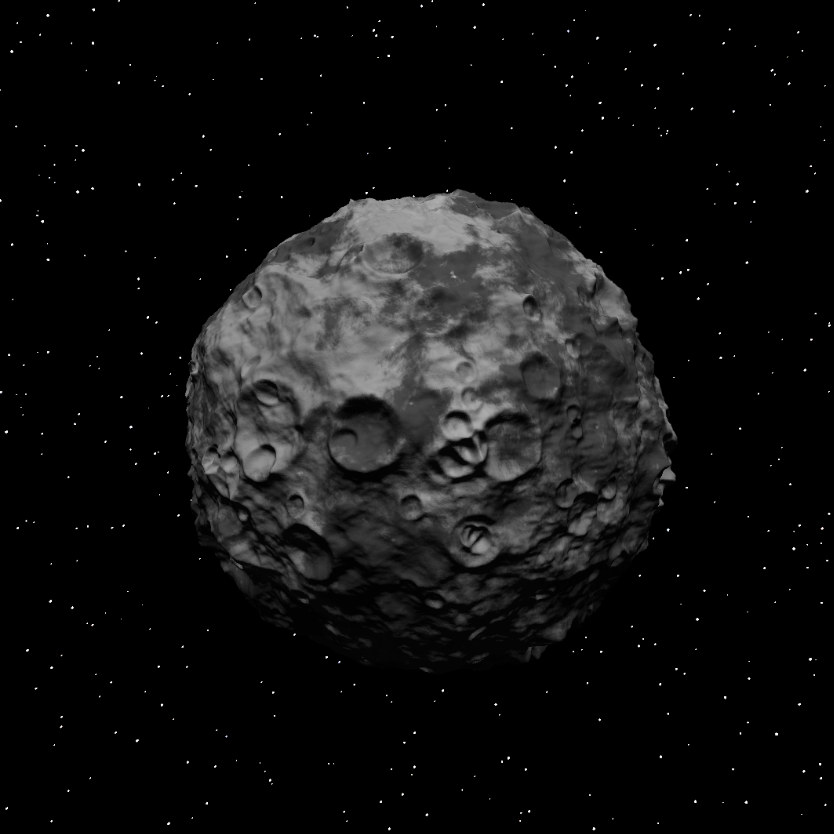
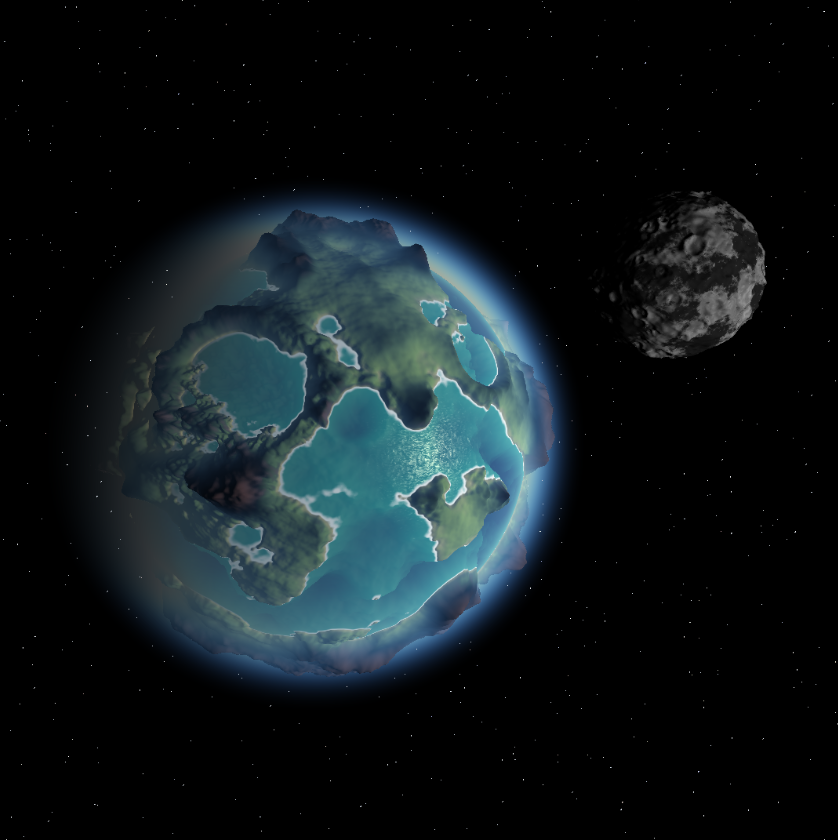
Added Anazir

diff --git a/index.html b/index.html
@@ -3,6 +3,7 @@
     <head>
         <meta charset="utf-8">
         <title>Valentin POQUET Portfolio</title>
+        <link rel="icon" type="image/AtomFusion" href="favicon.ico">
         <link rel="stylesheet" href="Portfolio.css">
         <link rel="stylesheet" href="GameSquare.css">
         <script src="Javascript.js" defer></script>
@@ -15,7 +16,37 @@
         <!--<h1 class="main_title">Gameplay Developper</h1>-->
         <h1 class="main_title">Portfolio</h1>
         <div class="section_banner">
-            <h1 class="section_title">Jeux</h1>
+            <h1 class="section_title">Projets professionnels</h1>
+        </div>
+        <div class="squares_container">
+            <!--Anazir-->
+            <div class="square">
+                <div class="image_container">
+                    <a href="https://www.anazirgame.com/" target="_blank">
+                        <img class="square-image" src="MainProjectsImg/Anazir.png" alt="Anazir" />
+                        <div class="square_text_container">
+                            <div class="square_text">Anazir</div>
+                        </div>
+                    </a>
+                </div>
+                <div class="work_tags_container">
+                    <div class="work_tag" style="background-color: #941a1e">
+                        <span>C#</span>
+                    </div>
+                    <div class="work_tag" style="background-color: #015d70">
+                        <span>Unity</span>
+                    </div>
+                    <div class="work_tag" style="background-color: #1c5e21">
+                        <span>Développeur Unity</span>
+                    </div>
+                    <div class="work_tag" style="background-color: #1c5e21">
+                        <span>Jeu Android/iOS</span>
+                    </div>
+                </div>
+            </div>
+        </div>
+        <div class="section_banner">
+            <h1 class="section_title">Projets universitaires</h1>
         </div>
         <div class="squares_container">
             <!--Happy Bites-->
@@ -36,7 +67,7 @@
                         <span>Unity</span>
                     </div>
                     <div class="work_tag" style="background-color: #1c5e21">
-                        <span>Université</span>
+                        <span>Jeu PC/Android</span>
                     </div>
                 </div>
             </div>
@@ -58,7 +89,100 @@
                         <span>Unity</span>
                     </div>
                     <div class="work_tag" style="background-color: #1c5e21">
-                        <span>Université</span>
+                        <span>Jeu PC/Android</span>
+                    </div>
+                </div>
+            </div>
+            <!--Cocoban-->
+            <div class="square">
+                <div class="image_container">
+                    <a href="Games/Cocoban/Cocoban.html">
+                        <img class="square-image" src="MainProjectsImg/Cocoban.png" alt="Cocoban" />
+                        <div class="square_text_container">
+                            <div class="square_text">Cocoban</div>
+                        </div>
+                    </a>
+                </div>
+                <div class="work_tags_container">
+                    <div class="work_tag" style="background-color: #941a1e">
+                        <span>C#</span>
+                    </div>
+                    <div class="work_tag" style="background-color: #015d70">
+                        <span>Godot</span>
+                    </div>
+                    <div class="work_tag" style="background-color: #1c5e21">
+                        <span>Jeu PC</span>
+                    </div>
+                </div>
+            </div>
+            <!--Paper Shooter-->
+            <div class="square">
+                <div class="image_container">
+                    <a href="Games/PaperShooter/PaperShooter.html">
+                        <img class="square-image" src="MainProjectsImg/PaperShooter.png" alt="Paper Shooter" />
+                        <div class="square_text_container">
+                            <div class="square_text">Paper Shooter</div>
+                        </div>
+                    </a>
+                </div>
+                <div class="work_tags_container">
+                    <div class="work_tag" style="background-color: #941a1e">
+                        <span>C#</span>
+                    </div>
+                    <div class="work_tag" style="background-color: #015d70">
+                        <span>Godot</span>
+                    </div>
+                    <div class="work_tag" style="background-color: #1c5e21">
+                        <span>Jeu PC</span>
+                    </div>
+                </div>
+            </div>
+        </div>
+        <div class="section_banner">
+            <h1 class="section_title">Projets personnels</h1>
+        </div>
+        <div class="squares_container">
+            <!--Procedural System-->
+            <div class="square">
+                <div class="image_container">
+                    <a href="OtherProjects/ProceduralSolarSystem/ProceduralSolarSystem.html">
+                        <img class="square-image" src="MainProjectsImg/ProceduralSolarSystem.png" alt="Moon" />
+                        <div class="square_text_container">
+                            <div class="square_text procedural_solar_system">Système solaire procédural</div>
+                        </div>
+                    </a>
+                </div>
+                <div class="work_tags_container">
+                    <div class="work_tag" style="background-color: #941a1e">
+                        <span>C#</span>
+                    </div>
+                    <div class="work_tag" style="background-color: #941a1e">
+                        <span>Shader</span>
+                    </div>
+                    <div class="work_tag" style="background-color: #941a1e">
+                        <span>Compute Shader</span>
+                    </div>
+                    <div class="work_tag" style="background-color: #015d70">
+                        <span>Unity</span>
+                    </div>
+                    <div class="work_tag" style="background-color: #1c5e21">
+                        <span>Technique</span>
+                    </div>
+                </div>
+            </div>
+            <!--Bg3 Mod Spectator shapeshift-->
+            <div class="square">
+                <div class="image_container">
+                    <a target="_blank" href="https://www.nexusmods.com/baldursgate3/mods/6997">
+                        <img class="square-image" src="MainProjectsImg/Bg3ModSpectatorShapeshift.jpg" alt="Bg3ModSpectatorShapeshift" />
+                        <div class="square_text_container">
+                            <div class="square_text procedural_solar_system">Baldur's Gate 3 mod: Spectator Shapeshift</div>
+                        </div>
+                    </a>
+                </div>
+                <div class="work_tags_container">
+                    <div class="work_tag" style="background-color: #015d70">
+                        <span>Modding</span>
                     </div>
                 </div>
             </div>
@@ -83,51 +207,7 @@
                         <span>Godot</span>
                     </div>
                     <div class="work_tag" style="background-color: #1c5e21">
-                        <span>Personnel</span>
-                    </div>
-                </div>
-            </div>
-            <!--Cocoban-->
-            <div class="square">
-                <div class="image_container">
-                    <a href="Games/Cocoban/Cocoban.html">
-                        <img class="square-image" src="MainProjectsImg/Cocoban.png" alt="Cocoban" />
-                        <div class="square_text_container">
-                            <div class="square_text">Cocoban</div>
-                        </div>
-                    </a>
-                </div>
-                <div class="work_tags_container">
-                    <div class="work_tag" style="background-color: #941a1e">
-                        <span>C#</span>
-                    </div>
-                    <div class="work_tag" style="background-color: #015d70">
-                        <span>Godot</span>
-                    </div>
-                    <div class="work_tag" style="background-color: #1c5e21">
-                        <span>Université</span>
-                    </div>
-                </div>
-            </div>
-            <!--Paper Shooter-->
-            <div class="square">
-                <div class="image_container">
-                    <a href="Games/PaperShooter/PaperShooter.html">
-                        <img class="square-image" src="MainProjectsImg/PaperShooter.png" alt="Paper Shooter" />
-                        <div class="square_text_container">
-                            <div class="square_text">Paper Shooter</div>
-                        </div>
-                    </a>
-                </div>
-                <div class="work_tags_container">
-                    <div class="work_tag" style="background-color: #941a1e">
-                        <span>C#</span>
-                    </div>
-                    <div class="work_tag" style="background-color: #015d70">
-                        <span>Godot</span>
-                    </div>
-                    <div class="work_tag" style="background-color: #1c5e21">
-                        <span>Université</span>
+                        <span>Jeu Android</span>
                     </div>
                 </div>
             </div>
@@ -146,59 +226,7 @@
                         <span>Python</span>
                     </div>
                     <div class="work_tag" style="background-color: #1c5e21">
-                        <span>Personnel</span>
-                    </div>
-                </div>
-            </div>
-        </div>
-        <div class="section_banner">
-            <h1 class="section_title">Autres projets</h1>
-        </div>
-        <div class="squares_container">
-            <!--Procedural System-->
-            <div class="square">
-                <div class="image_container">
-                    <a href="OtherProjects/ProceduralSolarSystem/ProceduralSolarSystem.html">
-                        <img class="square-image" src="MainProjectsImg/ProceduralSolarSystem.png" alt="Moon" />
-                        <div class="square_text_container">
-                            <div class="square_text procedural_solar_system">Système solaire procédural (WIP)</div>
-                        </div>
-                    </a>
-                </div>
-                <div class="work_tags_container">
-                    <div class="work_tag" style="background-color: #941a1e">
-                        <span>C#</span>
-                    </div>
-                    <div class="work_tag" style="background-color: #941a1e">
-                        <span>Shader</span>
-                    </div>
-                    <div class="work_tag" style="background-color: #941a1e">
-                        <span>Compute Shader</span>
-                    </div>
-                    <div class="work_tag" style="background-color: #015d70">
-                        <span>Unity</span>
-                    </div>
-                    <div class="work_tag" style="background-color: #1c5e21">
-                        <span>Personnel</span>
-                    </div>
-                </div>
-            </div>
-            <!--Bg3 Mod Spectator shapeshift-->
-            <div class="square">
-                <div class="image_container">
-                    <a target="_blank" href="https://www.nexusmods.com/baldursgate3/mods/6997">
-                        <img class="square-image" src="MainProjectsImg/Bg3ModSpectatorShapeshift.jpg" alt="Bg3ModSpectatorShapeshift" />
-                        <div class="square_text_container">
-                            <div class="square_text procedural_solar_system">Baldur's Gate 3 mod: Spectator Shapeshift</div>
-                        </div>
-                    </a>
-                </div>
-                <div class="work_tags_container">
-                    <div class="work_tag" style="background-color: #015d70">
-                        <span>Modding</span>
-                    </div>
-                    <div class="work_tag" style="background-color: #1c5e21">
-                        <span>Personnel</span>
+                        <span>Jeu PC</span>
                     </div>
                 </div>
             </div>

diff --git a/OtherProjects/ProceduralSolarSystem/ProceduralSolarSystem.html b/OtherProjects/ProceduralSolarSystem/ProceduralSolarSystem.html
@@ -18,7 +18,7 @@
         </div>-->
         <div class="TopSpace"></div>
         <div class="game_desc">
-            <h1 class="game_title">Sytème solaire procédural (WIP)</h1>
+            <h1 class="game_title">Sytème solaire procédural</h1>
             <table class="skills_table">
                 <tbody>
                     <tr>
@@ -35,7 +35,7 @@
                     </tr>
                     <tr>
                         <td class="skill_left_text"><strong>Période</strong></td>
-                        <td class="skill_right_text">Décembre 2023 - ...</td>
+                        <td class="skill_right_text">Décembre 2023 - Mars 2024</td>
                     </tr>
                 </tbody>
             </table>
@@ -110,11 +110,11 @@
             </ul>
             <ul id="accordion">
                 <li>
-                    <label for="second"><strong>Compute Shader</strong><span>+</span></label>
-                    <input type="checkbox" name="accordion" id="second">
+                    <label for="6"><strong>Compute Shader</strong><span>+</span></label>
+                    <input type="checkbox" name="accordion" id="6">
                     <div class="content">
                         <div class="content_text">
-                            J'ai généré la forme de la lune en utilisant un compute shader pour raison d'optimisation. 
+                            J'ai généré la forme de la lune en utilisant un compute shader pour des raisons d'optimisation. 
                             Je crée donc un compute buffer en Read-Write pour les vertices et qui va donc changer la position de chaque vertex. 
                             Je crée aussi un compute buffer qui contient la position et taille de chaque cratère, et un pour chaque noise que j'utilise.
                         </div>
@@ -123,16 +123,36 @@
             </ul>
             <ul id="accordion">
                 <li>
-                    <label for="6"><strong>Fond étoilé</strong><span>+</span></label>
-                    <input type="checkbox" name="accordion" id="6">
+                    <label for="7"><strong>Génération de la planète</strong><span>+</span></label>
+                    <input type="checkbox" name="accordion" id="7">
                     <div class="content">
                         <div class="content_text">
-                            J'ai créé un système qui place un certain nombre de sphères lumineuses à une position aléatoire à une certaine distance du centre et avec une couleur aléatoire parmi un gradient de couleurs prédéfinies, ce qui crée donc un dôme d'étoiles et qui ressemble à un fond étoilé vu depuis le centre.                        
+                            La forme de base de la planète commence de la même façon que les lunes mais avec beaucoup moins de cratères.
+                            Par code je crée ensuite des montagnes procéduralement et j'ajoute des creux qui vont permettre à l'océan de s'afficher.
+                            Ensuite pour la couleur je crée un shader et en fonction de la hauteur et de la pente du terrain la couleur varie, 
+                            mais j'applique aussi un noise texture pour faire varier la couleur à certains endroits.
+                        </div>
+                    </div>
+                </li>
+            </ul>
+            <ul id="accordion">
+                <li>
+                    <label for="8"><strong>Océans</strong><span>+</span></label>
+                    <input type="checkbox" name="accordion" id="8">
+                    <div class="content">
+                        <div class="content_text">
+                            J'ai généré les océans des planètes grace à des shaders en utilisant du poste.
+                            Chaque planète possède un océan et chaque océan change de couleur procéduralement.
+                            La façon dont marche l'eau est que pour chaque pixel de l'écran, un ray est envoyé pour calculer la distance qu'il parcourt à travers l'eau, 
+                            et plus la distance est longue, moins la transparence est élevée.
                         </div>
                     </div>
                 </li>
             </ul>
         </div>
+        <p class="GameplayVideoContainer">
+            <iframe width="960" height="540" src="https://www.youtube.com/embed/9OgbKgKhzMI" frameborder="0" class="GameplayVideo"></iframe>
+        </p>
         <div class="bottom_space"></div>
     </body>
 </html>

diff --git a/GameSquare.css b/GameSquare.css
@@ -28,7 +28,7 @@
     width: 100%;
     height: 100%;
     
-    border-radius: 1.25vh;
+    border-radius: .9vh;
 
     overflow: hidden; /* Ensures the image does not overflow the container */
 }

diff --git a/Games/Project.css b/Games/Project.css
@@ -104,7 +104,7 @@
 .content{
     max-height: 0;
     overflow: hidden;
-    transition: max-height 0.5s ease;
+    transition: max-height 0.0s ease;
 }
 
 .content_text{

diff --git a/Portfolio.css b/Portfolio.css
@@ -100,7 +100,7 @@ body{
     text-align: center;
     align-items: center;
     
-    font-size: 8vh;
+    font-size: 7vh;
 }
 
 .bottom_space{
